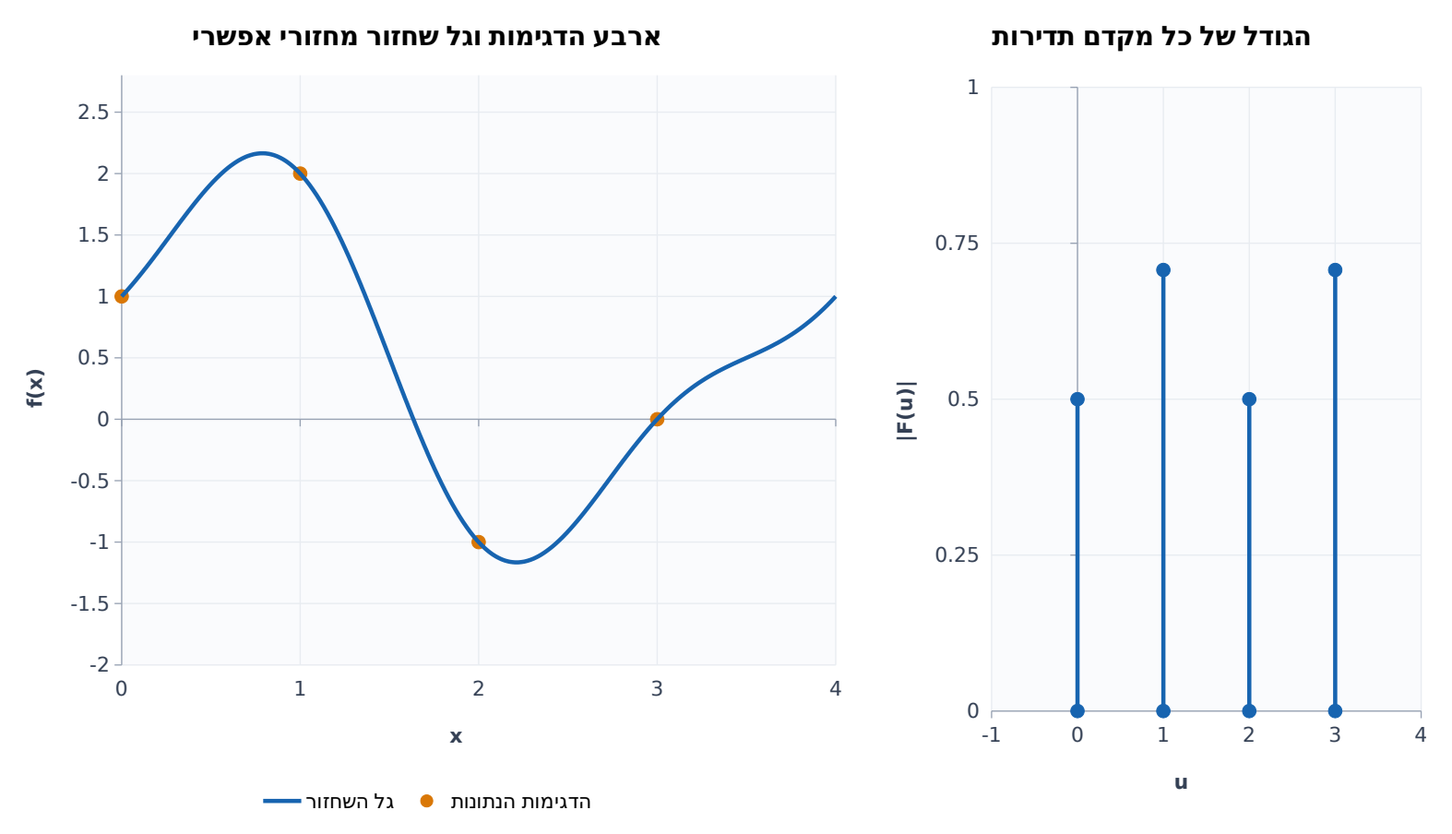
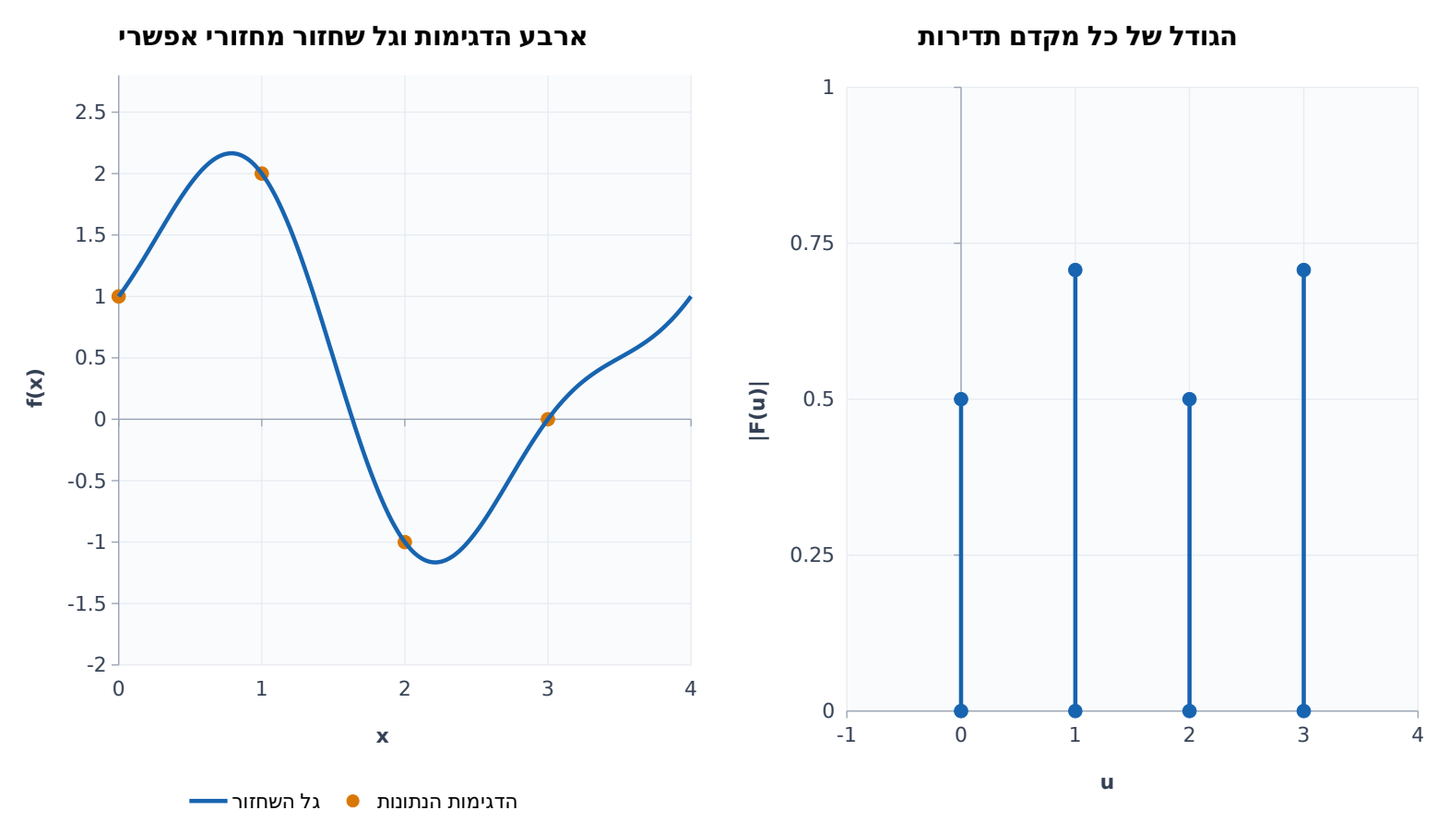
Center course figures at 80 percent width and balance paired graphs

diff --git a/work/לקריאה ב־GitHub/01 - מדריך להתמרת פורייה.md b/work/לקריאה ב־GitHub/01 - מדריך להתמרת פורייה.md
@@ -37,7 +37,7 @@
 
 הטבלה מספרת מאילו תנודות בנינו את הצליל. אם מייצרים את שני הקוסינוסים ומחברים אותם באותו תזמון, חוזרים לעקומה בזמן. אין צורך לשמור בנפרד את ערך הסכום בכל רגע כדי לתאר את הדוגמה האידאלית הזאת.
 
-<a href="../%D7%90%D7%99%D7%95%D7%A8%D7%99%D7%9D%20%D7%9C%D7%9E%D7%93%D7%A8%D7%99%D7%9A%20%D7%A4%D7%95%D7%A8%D7%99%D7%99%D7%94/09-%D7%A7%D7%95%D7%9C-%D7%96%D7%9E%D7%9F-%D7%95%D7%AA%D7%93%D7%99%D7%A8%D7%95%D7%AA.png"><img src="../%D7%90%D7%99%D7%95%D7%A8%D7%99%D7%9D%20%D7%9C%D7%9E%D7%93%D7%A8%D7%99%D7%9A%20%D7%A4%D7%95%D7%A8%D7%99%D7%99%D7%94/09-%D7%A7%D7%95%D7%9C-%D7%96%D7%9E%D7%9F-%D7%95%D7%AA%D7%93%D7%99%D7%A8%D7%95%D7%AA.png" alt="אות קול בזמן ומשרעות שני רכיבי הקוסינוס שלו בתדירות" width="50%"></a>
+<p align="center"><a href="../%D7%90%D7%99%D7%95%D7%A8%D7%99%D7%9D%20%D7%9C%D7%9E%D7%93%D7%A8%D7%99%D7%9A%20%D7%A4%D7%95%D7%A8%D7%99%D7%99%D7%94/09-%D7%A7%D7%95%D7%9C-%D7%96%D7%9E%D7%9F-%D7%95%D7%AA%D7%93%D7%99%D7%A8%D7%95%D7%AA.png"><img src="../%D7%90%D7%99%D7%95%D7%A8%D7%99%D7%9D%20%D7%9C%D7%9E%D7%93%D7%A8%D7%99%D7%9A%20%D7%A4%D7%95%D7%A8%D7%99%D7%99%D7%94/09-%D7%A7%D7%95%D7%9C-%D7%96%D7%9E%D7%9F-%D7%95%D7%AA%D7%93%D7%99%D7%A8%D7%95%D7%AA.png" alt="אות קול בזמן ומשרעות שני רכיבי הקוסינוס שלו בתדירות" width="80%"></a></p>
 
 **מה רואים?** משמאל מוצגות שלוש מאיות השנייה הראשונות של הצליל: הקו הוא הסכום, ושני רכיביו אינם מצוירים בנפרד. מימין מתואר ההרכב שבחרנו לצליל המתמשך: קוסינוס של <span dir="ltr"> $`100`$</span> הרץ במשרעת <span dir="ltr"> $`2`$</span> וקוסינוס של <span dir="ltr"> $`200`$</span> הרץ במשרעת <span dir="ltr"> $`1`$</span>. זהו תרשים משרעות הרכיבים, ולא חישוב התמרה של מקטע התצוגה הקצר. הציר האופקי מימין הוא תדירות, ולכן כל עמודה מייצגת גל שלם המשתתף באות.
 
@@ -57,7 +57,7 @@
 
 לכן בתיאור לפי מקום שואלים ״מה בהירות הפיקסל השלישי?״, ובתיאור לפי תדירות שואלים ״כמה דפוס של שני מחזורים משתתף בשורה?״. בשורה אחידה, למשל שמונה ערכים שכולם <span dir="ltr"> $`4`$</span>, יש רק רכיב קבוע ואין תנודה. בשורה שמתחלפת בין <span dir="ltr"> $`6`$</span> ל־<span dir="ltr"> $`2`$</span> בכל פיקסל, יש ארבעה מחזורים באותו אורך — תדירות מרחבית גבוהה יותר.
 
-<a href="../%D7%90%D7%99%D7%95%D7%A8%D7%99%D7%9D%20%D7%9C%D7%9E%D7%93%D7%A8%D7%99%D7%9A%20%D7%A4%D7%95%D7%A8%D7%99%D7%99%D7%94/10-%D7%A4%D7%99%D7%A7%D7%A1%D7%9C%D7%99%D7%9D-%D7%95%D7%AA%D7%93%D7%99%D7%A8%D7%95%D7%AA.png"><img src="../%D7%90%D7%99%D7%95%D7%A8%D7%99%D7%9D%20%D7%9C%D7%9E%D7%93%D7%A8%D7%99%D7%9A%20%D7%A4%D7%95%D7%A8%D7%99%D7%99%D7%94/10-%D7%A4%D7%99%D7%A7%D7%A1%D7%9C%D7%99%D7%9D-%D7%95%D7%AA%D7%93%D7%99%D7%A8%D7%95%D7%AA.png" alt="שורת שמונה פיקסלים מול תיאור שלה באמצעות ממוצע וקוסינוס" width="50%"></a>
+<p align="center"><a href="../%D7%90%D7%99%D7%95%D7%A8%D7%99%D7%9D%20%D7%9C%D7%9E%D7%93%D7%A8%D7%99%D7%9A%20%D7%A4%D7%95%D7%A8%D7%99%D7%99%D7%94/10-%D7%A4%D7%99%D7%A7%D7%A1%D7%9C%D7%99%D7%9D-%D7%95%D7%AA%D7%93%D7%99%D7%A8%D7%95%D7%AA.png"><img src="../%D7%90%D7%99%D7%95%D7%A8%D7%99%D7%9D%20%D7%9C%D7%9E%D7%93%D7%A8%D7%99%D7%9A%20%D7%A4%D7%95%D7%A8%D7%99%D7%99%D7%94/10-%D7%A4%D7%99%D7%A7%D7%A1%D7%9C%D7%99%D7%9D-%D7%95%D7%AA%D7%93%D7%99%D7%A8%D7%95%D7%AA.png" alt="שורת שמונה פיקסלים מול תיאור שלה באמצעות ממוצע וקוסינוס" width="80%"></a></p>
 
 **מה רואים?** משמאל הבהירות בכל אחד משמונת הפיקסלים; הקווים בין הנקודות עוזרים לראות את הדפוס. הקו המקווקו הוא הממוצע <span dir="ltr"> $`4`$</span>. מימין מופיעים הרכיב הקבוע בגודל <span dir="ltr"> $`4`$</span> ותנודת הקוסינוס במשרעת <span dir="ltr"> $`2`$</span> שמשלימה שני מחזורים לאורך השורה. אפס מחזורים פירושו רכיב קבוע. גם כאן זהו תרשים של מרכיבי הדוגמה; ערכי מקדמי ההתמרה יוגדרו בנפרד בהמשך.
 
@@ -122,7 +122,7 @@
 
 משך מחזור אחד הוא <span dir="ltr"> $`1/u`$</span>, עבור <span dir="ltr"> $`u>0`$</span>. למשל, בתדירות <span dir="ltr"> $`4\,\mathrm{Hz}`$</span> כל מחזור נמשך רבע שנייה. זה גם הפירוש של הכיתוב <span dir="ltr"> $`1/u`$</span> מעל הגל במצגת. כשמדברים על תדירות זוויתית, מתכוונים ל־<span dir="ltr"> $`2\pi u`$</span> רדיאנים ליחידת קלט.
 
-<a href="../%D7%90%D7%99%D7%95%D7%A8%D7%99%D7%9D%20%D7%9C%D7%9E%D7%93%D7%A8%D7%99%D7%9A%20%D7%A4%D7%95%D7%A8%D7%99%D7%99%D7%94/01-%D7%AA%D7%93%D7%99%D7%A8%D7%95%D7%AA.png"><img src="../%D7%90%D7%99%D7%95%D7%A8%D7%99%D7%9D%20%D7%9C%D7%9E%D7%93%D7%A8%D7%99%D7%9A%20%D7%A4%D7%95%D7%A8%D7%99%D7%99%D7%94/01-%D7%AA%D7%93%D7%99%D7%A8%D7%95%D7%AA.png" alt="השוואת גל בתדירות אחת לגל בתדירות שלוש באותו חלון ובאותה משרעת" width="50%"></a>
+<p align="center"><a href="../%D7%90%D7%99%D7%95%D7%A8%D7%99%D7%9D%20%D7%9C%D7%9E%D7%93%D7%A8%D7%99%D7%9A%20%D7%A4%D7%95%D7%A8%D7%99%D7%99%D7%94/01-%D7%AA%D7%93%D7%99%D7%A8%D7%95%D7%AA.png"><img src="../%D7%90%D7%99%D7%95%D7%A8%D7%99%D7%9D%20%D7%9C%D7%9E%D7%93%D7%A8%D7%99%D7%9A%20%D7%A4%D7%95%D7%A8%D7%99%D7%99%D7%94/01-%D7%AA%D7%93%D7%99%D7%A8%D7%95%D7%AA.png" alt="השוואת גל בתדירות אחת לגל בתדירות שלוש באותו חלון ובאותה משרעת" width="80%"></a></p>
 
 **מה רואים?** שני הגלים מתחילים בשיא וגובה השיא בשניהם הוא <span dir="ltr"> $`1`$</span>. הכחול משלים מחזור אחד בין <span dir="ltr"> $`x=0`$</span> ל־<span dir="ltr"> $`x=1`$</span>, והכתום המקווקו משלים שלושה. התדירות משנה את צפיפות התנודות, בעוד שהגובה נשאר זהה. בשניהם מציבים בנוסחה <span dir="ltr"> $`f(x)=\cos(2\pi ux)`$</span>.
 
@@ -147,7 +147,7 @@ f(x)=2\cos(2\pi ux+\theta).
 
 לדוגמה, כש־<span dir="ltr"> $`u=1`$</span> ו־<span dir="ltr"> $`\theta=0`$</span>, מתקבל <span dir="ltr"> $`f(x)=2\cos(2\pi x)`$</span>: שני הגורמים <span dir="ltr"> $`2`$</span> ממלאים תפקידים שונים — הראשון קובע את הגובה, והגורם <span dir="ltr"> $`2\pi`$</span> ממיר מחזור שלם לרדיאנים.
 
-<a href="../%D7%90%D7%99%D7%95%D7%A8%D7%99%D7%9D%20%D7%9C%D7%9E%D7%93%D7%A8%D7%99%D7%9A%20%D7%A4%D7%95%D7%A8%D7%99%D7%99%D7%94/02-%D7%9E%D7%A9%D7%A8%D7%A2%D7%AA.png"><img src="../%D7%90%D7%99%D7%95%D7%A8%D7%99%D7%9D%20%D7%9C%D7%9E%D7%93%D7%A8%D7%99%D7%9A%20%D7%A4%D7%95%D7%A8%D7%99%D7%99%D7%94/02-%D7%9E%D7%A9%D7%A8%D7%A2%D7%AA.png" alt="שני גלים בתדירות זהה ובמשרעות חצי ואחת וחצי" width="50%"></a>
+<p align="center"><a href="../%D7%90%D7%99%D7%95%D7%A8%D7%99%D7%9D%20%D7%9C%D7%9E%D7%93%D7%A8%D7%99%D7%9A%20%D7%A4%D7%95%D7%A8%D7%99%D7%99%D7%94/02-%D7%9E%D7%A9%D7%A8%D7%A2%D7%AA.png"><img src="../%D7%90%D7%99%D7%95%D7%A8%D7%99%D7%9D%20%D7%9C%D7%9E%D7%93%D7%A8%D7%99%D7%9A%20%D7%A4%D7%95%D7%A8%D7%99%D7%99%D7%94/02-%D7%9E%D7%A9%D7%A8%D7%A2%D7%AA.png" alt="שני גלים בתדירות זהה ובמשרעות חצי ואחת וחצי" width="80%"></a></p>
 
 **מה רואים?** כאן <span dir="ltr"> $`u=2`$</span> ו־<span dir="ltr"> $`\theta=0`$</span> בשני הגלים. הכחול הוא <span dir="ltr"> $`1.5\cos(4\pi x)`$</span> והכתום המקווקו הוא <span dir="ltr"> $`0.5\cos(4\pi x)`$</span>. השיאים והאפסים מופיעים באותם מיקומים: השתנתה המשרעת, ואילו התדירות והמופע נשארו זהים.
 
@@ -163,7 +163,7 @@ f(x)=2\cos(2\pi ux+\theta).
 
 סינוס וקוסינוס הם אותה צורת גל בהזזה של רבע מחזור. מופעים שנבדלים בכפולה של <span dir="ltr"> $`2\pi`$</span> מתארים אותו גל. כשמכפילים את הקוסינוס באפס אין תנודה, ולכן אין משמעות למופע שלה.
 
-<a href="../%D7%90%D7%99%D7%95%D7%A8%D7%99%D7%9D%20%D7%9C%D7%9E%D7%93%D7%A8%D7%99%D7%9A%20%D7%A4%D7%95%D7%A8%D7%99%D7%99%D7%94/03-%D7%9E%D7%95%D7%A4%D7%A2.png"><img src="../%D7%90%D7%99%D7%95%D7%A8%D7%99%D7%9D%20%D7%9C%D7%9E%D7%93%D7%A8%D7%99%D7%9A%20%D7%A4%D7%95%D7%A8%D7%99%D7%99%D7%94/03-%D7%9E%D7%95%D7%A4%D7%A2.png" alt="גל קוסינוס וגל במופע מינוס פאי חלקי שתיים באותה תדירות ובאותו גודל" width="50%"></a>
+<p align="center"><a href="../%D7%90%D7%99%D7%95%D7%A8%D7%99%D7%9D%20%D7%9C%D7%9E%D7%93%D7%A8%D7%99%D7%9A%20%D7%A4%D7%95%D7%A8%D7%99%D7%99%D7%94/03-%D7%9E%D7%95%D7%A4%D7%A2.png"><img src="../%D7%90%D7%99%D7%95%D7%A8%D7%99%D7%9D%20%D7%9C%D7%9E%D7%93%D7%A8%D7%99%D7%9A%20%D7%A4%D7%95%D7%A8%D7%99%D7%99%D7%94/03-%D7%9E%D7%95%D7%A4%D7%A2.png" alt="גל קוסינוס וגל במופע מינוס פאי חלקי שתיים באותה תדירות ובאותו גודל" width="80%"></a></p>
 
 **מה רואים?** בשניהם <span dir="ltr"> $`u=1`$</span> והמשרעת היא <span dir="ltr"> $`1`$</span>. עבור <span dir="ltr"> $`\theta=0`$</span> הגל הכחול מתחיל בשיא; עבור <span dir="ltr"> $`\theta=-\pi/2`$</span> הגל הכתום מתחיל באפס ועולה. הנקודות ב־<span dir="ltr"> $`x=0`$</span> מדגישות את ההתחלה השונה. זהו שינוי מופע בלבד, בלי שינוי בגובה או במספר המחזורים.
 
@@ -191,7 +191,7 @@ f(x)=3\sin x+\sin3x+0.8\sin5x+0.4\sin7x.
 
 [מצגת המרצה ב־PDF, עמ׳ 11](../../sources/Intro+FourierI_slides.pdf#page=11) 
 
-<a href="../%D7%90%D7%99%D7%95%D7%A8%D7%99%D7%9D%20%D7%9C%D7%9E%D7%93%D7%A8%D7%99%D7%9A%20%D7%A4%D7%95%D7%A8%D7%99%D7%99%D7%94/04-%D7%97%D7%99%D7%91%D7%95%D7%A8-%D7%92%D7%9C%D7%99%D7%9D.png"><img src="../%D7%90%D7%99%D7%95%D7%A8%D7%99%D7%9D%20%D7%9C%D7%9E%D7%93%D7%A8%D7%99%D7%9A%20%D7%A4%D7%95%D7%A8%D7%99%D7%99%D7%94/04-%D7%97%D7%99%D7%91%D7%95%D7%A8-%D7%92%D7%9C%D7%99%D7%9D.png" alt="ארבעה שלבים של חיבור הגלים מהמצגת; הסכום בכחול והגל הנוסף בכתום מקווקו" width="50%"></a>
+<p align="center"><a href="../%D7%90%D7%99%D7%95%D7%A8%D7%99%D7%9D%20%D7%9C%D7%9E%D7%93%D7%A8%D7%99%D7%9A%20%D7%A4%D7%95%D7%A8%D7%99%D7%99%D7%94/04-%D7%97%D7%99%D7%91%D7%95%D7%A8-%D7%92%D7%9C%D7%99%D7%9D.png"><img src="../%D7%90%D7%99%D7%95%D7%A8%D7%99%D7%9D%20%D7%9C%D7%9E%D7%93%D7%A8%D7%99%D7%9A%20%D7%A4%D7%95%D7%A8%D7%99%D7%99%D7%94/04-%D7%97%D7%99%D7%91%D7%95%D7%A8-%D7%92%D7%9C%D7%99%D7%9D.png" alt="ארבעה שלבים של חיבור הגלים מהמצגת; הסכום בכחול והגל הנוסף בכתום מקווקו" width="80%"></a></p>
 
 **מה רואים?** קוראים את ארבעת הלוחות משמאל לימין ומלמעלה למטה. הכחול הוא הסכום שהתקבל עד אותו שלב; הכתום המקווקו הוא הגל שנוסף באותו שלב. בכל <span dir="ltr"> $`x`$</span> מחברים את הגבהים. תוספת של גל מהיר יוצרת תנודות קטנות ופרטים חדשים על גבי הצורה הקיימת. הנוסחאות בראש הלוחות הן אותן נוסחאות של הדוגמה במצגת; כאן הארגומנטים הם <span dir="ltr"> $`x,3x,5x,7x`$</span>.
 
@@ -330,7 +330,7 @@ f(x)=3\sin x+\sin3x+0.8\sin5x+0.4\sin7x.
 
 אם האות הוא <span dir="ltr"> $`2\cos(2\pi ux)`$</span>, תוצאת הבדיקה כפולה: <span dir="ltr"> $`1`$</span>. אם האות הוא <span dir="ltr"> $`3\cos(2\pi ux)`$</span>, התוצאה היא <span dir="ltr"> $`1.5`$</span>. לכן כדי לקבל את המשרעת בחזרה, מכפילים את תוצאת הבדיקה בשתיים. על חלון אחר שמכיל מספר שלם של מחזורים, מחלקים גם באורך החלון. תיקון קנה המידה הזה נקרא **נרמול**. כאן הוא נובע מכך שהממוצע של ריבוע קוסינוס הוא חצי.
 
-<a href="../%D7%90%D7%99%D7%95%D7%A8%D7%99%D7%9D%20%D7%9C%D7%9E%D7%93%D7%A8%D7%99%D7%9A%20%D7%A4%D7%95%D7%A8%D7%99%D7%99%D7%94/05-%D7%94%D7%AA%D7%90%D7%9E%D7%94-%D7%95%D7%91%D7%99%D7%98%D7%95%D7%9C.png"><img src="../%D7%90%D7%99%D7%95%D7%A8%D7%99%D7%9D%20%D7%9C%D7%9E%D7%93%D7%A8%D7%99%D7%9A%20%D7%A4%D7%95%D7%A8%D7%99%D7%99%D7%94/05-%D7%94%D7%AA%D7%90%D7%9E%D7%94-%D7%95%D7%91%D7%99%D7%98%D7%95%D7%9C.png" alt="מכפלת קוסינוסים בתדרים שונים לעומת מכפלת קוסינוס בעצמו" width="50%"></a>
+<p align="center"><a href="../%D7%90%D7%99%D7%95%D7%A8%D7%99%D7%9D%20%D7%9C%D7%9E%D7%93%D7%A8%D7%99%D7%9A%20%D7%A4%D7%95%D7%A8%D7%99%D7%99%D7%94/05-%D7%94%D7%AA%D7%90%D7%9E%D7%94-%D7%95%D7%91%D7%99%D7%98%D7%95%D7%9C.png"><img src="../%D7%90%D7%99%D7%95%D7%A8%D7%99%D7%9D%20%D7%9C%D7%9E%D7%93%D7%A8%D7%99%D7%9A%20%D7%A4%D7%95%D7%A8%D7%99%D7%99%D7%94/05-%D7%94%D7%AA%D7%90%D7%9E%D7%94-%D7%95%D7%91%D7%99%D7%98%D7%95%D7%9C.png" alt="מכפלת קוסינוסים בתדרים שונים לעומת מכפלת קוסינוס בעצמו" width="80%"></a></p>
 
 **מה רואים?** משמאל מצוירת המכפלה <span dir="ltr"> $`\cos(2\pi\cdot3x)\cos(2\pi\cdot5x)`$</span>: השטחים שמעל קו האפס ומתחתיו מתבטלים באינטגרל על <span dir="ltr"> $`0\le x\le1`$</span>. מימין מצויר <span dir="ltr"> $`\cos^2(2\pi\cdot3x)`$</span>, שאינו שלילי, ולכן התרומות מצטברות והאינטגרל הוא <span dir="ltr"> $`1/2`$</span>. בדוגמה זו משרעת גל הבדיקה היא <span dir="ltr"> $`1`$</span>. הגרף ממחיש מדוע ההתאמה נבדקת באמצעות סכום התרומות עם הסימנים שלהן.
 
@@ -419,7 +419,7 @@ e^{-i\theta}=\cos\theta-i\sin\theta.
 
 נוסחת אוילר וזוג ההתמרות הרציפות מופיעים ב[דף העזר פורייה, עמ׳ 1](../../sources/Fourier.pdf#page=1) .
 
-<a href="../%D7%90%D7%99%D7%95%D7%A8%D7%99%D7%9D%20%D7%9C%D7%9E%D7%93%D7%A8%D7%99%D7%9A%20%D7%A4%D7%95%D7%A8%D7%99%D7%99%D7%94/06-%D7%92%D7%9C-%D7%9E%D7%A8%D7%95%D7%9B%D7%91.png"><img src="../%D7%90%D7%99%D7%95%D7%A8%D7%99%D7%9D%20%D7%9C%D7%9E%D7%93%D7%A8%D7%99%D7%9A%20%D7%A4%D7%95%D7%A8%D7%99%D7%99%D7%94/06-%D7%92%D7%9C-%D7%9E%D7%A8%D7%95%D7%9B%D7%91.png" alt="מעגל היחידה משמאל וגלי ההיטל הממשי והמדומה מימין" width="50%"></a>
+<p align="center"><a href="../%D7%90%D7%99%D7%95%D7%A8%D7%99%D7%9D%20%D7%9C%D7%9E%D7%93%D7%A8%D7%99%D7%9A%20%D7%A4%D7%95%D7%A8%D7%99%D7%99%D7%94/06-%D7%92%D7%9C-%D7%9E%D7%A8%D7%95%D7%9B%D7%91.png"><img src="../%D7%90%D7%99%D7%95%D7%A8%D7%99%D7%9D%20%D7%9C%D7%9E%D7%93%D7%A8%D7%99%D7%9A%20%D7%A4%D7%95%D7%A8%D7%99%D7%99%D7%94/06-%D7%92%D7%9C-%D7%9E%D7%A8%D7%95%D7%9B%D7%91.png" alt="מעגל היחידה משמאל וגלי ההיטל הממשי והמדומה מימין" width="80%"></a></p>
 
 **מה רואים?** משמאל מוצגת נקודה על מעגל היחידה, <span dir="ltr"> $`Z=e^{i\theta}`$</span>, בדוגמה <span dir="ltr"> $`\theta=\pi/3`$</span>: ההיטל האופקי שלה הוא <span dir="ltr"> $`1/2`$</span> וההיטל האנכי הוא <span dir="ltr"> $`\sqrt3/2`$</span>. מימין נותנים לזווית להתקדם לפי <span dir="ltr"> $`\theta=2\pi x`$</span>, כלומר <span dir="ltr"> $`u=1`$</span>. ההיטל הממשי יוצר קוסינוס וההיטל המדומה יוצר סינוס. הנקודה מסתובבת וגודלה נשאר <span dir="ltr"> $`1`$</span>, אף שכל אחד מההיטלים משתנה בגל.
 
@@ -841,7 +841,7 @@ f(x)=\frac12 +\cos\left(\frac{\pi x}{2}\right) +\sin\left(\frac{\pi x}{2}\right)
 
 קיבלנו חזרה את ארבע הדגימות המקוריות. כל המקדמים בדוגמה מחושבים לפי נרמול הקורס, וההיפוך מחבר אותם ללא חלוקה נוספת. [מצגת המרצה ב־PDF, עמ׳ 22](../../sources/Intro+FourierI_slides.pdf#page=22) 
 
-<a href="../%D7%90%D7%99%D7%95%D7%A8%D7%99%D7%9D%20%D7%9C%D7%9E%D7%93%D7%A8%D7%99%D7%9A%20%D7%A4%D7%95%D7%A8%D7%99%D7%99%D7%94/07-%D7%93%D7%92%D7%99%D7%9E%D7%95%D7%AA-%D7%95%D7%AA%D7%93%D7%A8%D7%99%D7%9D.png"><img src="../%D7%90%D7%99%D7%95%D7%A8%D7%99%D7%9D%20%D7%9C%D7%9E%D7%93%D7%A8%D7%99%D7%9A%20%D7%A4%D7%95%D7%A8%D7%99%D7%99%D7%94/07-%D7%93%D7%92%D7%99%D7%9E%D7%95%D7%AA-%D7%95%D7%AA%D7%93%D7%A8%D7%99%D7%9D.png" alt="ארבע הדגימות עם גל שחזור אפשרי משמאל וגדלי מקדמי ההתמרה מימין" width="50%"></a>
+<p align="center"><a href="../%D7%90%D7%99%D7%95%D7%A8%D7%99%D7%9D%20%D7%9C%D7%9E%D7%93%D7%A8%D7%99%D7%9A%20%D7%A4%D7%95%D7%A8%D7%99%D7%99%D7%94/07-%D7%93%D7%92%D7%99%D7%9E%D7%95%D7%AA-%D7%95%D7%AA%D7%93%D7%A8%D7%99%D7%9D.png"><img src="../%D7%90%D7%99%D7%95%D7%A8%D7%99%D7%9D%20%D7%9C%D7%9E%D7%93%D7%A8%D7%99%D7%9A%20%D7%A4%D7%95%D7%A8%D7%99%D7%99%D7%94/07-%D7%93%D7%92%D7%99%D7%9E%D7%95%D7%AA-%D7%95%D7%AA%D7%93%D7%A8%D7%99%D7%9D.png" alt="ארבע הדגימות עם גל שחזור אפשרי משמאל וגדלי מקדמי ההתמרה מימין" width="80%"></a></p>
 
 **מה רואים?** משמאל הנקודות הכתומות הן ארבע הדגימות הנתונות, והקו הכחול הוא גל שחזור מחזורי אפשרי שעובר דרכן. הציר <span dir="ltr"> $`x`$</span> מציין כאן אינדקס דגימה; מחזור אחד כולל <span dir="ltr"> $`N=4`$</span> דגימות. הקו שבין הנקודות נועד להמחשה ואינו מדידה נוספת של האות המקורי. הוא חושב באמצעות
 
@@ -1281,7 +1281,7 @@ f(x)=\operatorname{rect}(x)=\begin{cases}k,&|x|\le c,\\0,&|x|>c.\end{cases}
 
 שלושה דברים אפשר לקרוא מיד: <span dir="ltr"> $`F(0)=2kc`$</span> הוא שטח המלבן; האפס הראשון בתדר חיובי נמצא ב־<span dir="ltr"> $`u=1/(2c)`$</span>; וככל שהמלבן רחב יותר, האונה המרכזית של הספקטרום צרה יותר. החיתוך החד במרחב יוצר גם אונות צד בתדירות. זו אינטואיציה לכך שגבולות חדים דורשים תדרים רבים, ולכך שמסנן חיתוך חד עשוי ליצור תנודות במרחב.
 
-<a href="../%D7%90%D7%99%D7%95%D7%A8%D7%99%D7%9D%20%D7%9C%D7%9E%D7%93%D7%A8%D7%99%D7%9A%20%D7%A4%D7%95%D7%A8%D7%99%D7%99%D7%94/08-%D7%9E%D7%9C%D7%91%D7%9F-%D7%95%D7%94%D7%AA%D7%9E%D7%A8%D7%94.png"><img src="../%D7%90%D7%99%D7%95%D7%A8%D7%99%D7%9D%20%D7%9C%D7%9E%D7%93%D7%A8%D7%99%D7%9A%20%D7%A4%D7%95%D7%A8%D7%99%D7%99%D7%94/08-%D7%9E%D7%9C%D7%91%D7%9F-%D7%95%D7%94%D7%AA%D7%9E%D7%A8%D7%94.png" alt="מלבנים בשני רוחבים והתמרות הפורייה שלהם, כולל האונות השליליות" width="50%"></a>
+<p align="center"><a href="../%D7%90%D7%99%D7%95%D7%A8%D7%99%D7%9D%20%D7%9C%D7%9E%D7%93%D7%A8%D7%99%D7%9A%20%D7%A4%D7%95%D7%A8%D7%99%D7%99%D7%94/08-%D7%9E%D7%9C%D7%91%D7%9F-%D7%95%D7%94%D7%AA%D7%9E%D7%A8%D7%94.png"><img src="../%D7%90%D7%99%D7%95%D7%A8%D7%99%D7%9D%20%D7%9C%D7%9E%D7%93%D7%A8%D7%99%D7%9A%20%D7%A4%D7%95%D7%A8%D7%99%D7%99%D7%94/08-%D7%9E%D7%9C%D7%91%D7%9F-%D7%95%D7%94%D7%AA%D7%9E%D7%A8%D7%94.png" alt="מלבנים בשני רוחבים והתמרות הפורייה שלהם, כולל האונות השליליות" width="80%"></a></p>
 
 **מה רואים?** משמאל שני מלבנים באותו גובה <span dir="ltr"> $`k=1`$</span>: הכחול עם <span dir="ltr"> $`c=0.5`$</span>, והכתום המקווקו עם <span dir="ltr"> $`c=1`$</span>. מימין מופיעות ההתמרות <span dir="ltr"> $`F(u)`$</span> שלהם. למלבן הרחב יש אונה מרכזית צרה יותר: האפס החיובי הראשון שלו הוא <span dir="ltr"> $`u=0.5`$</span>, לעומת <span dir="ltr"> $`u=1`$</span> במלבן הצר. ערך <span dir="ltr"> $`F(0)`$</span> הוא השטח: <span dir="ltr"> $`2`$</span> למלבן הרחב ו־<span dir="ltr"> $`1`$</span> לצר. כאן מצויר <span dir="ltr"> $`F(u)`$</span> עצמו, ולכן רואים גם אונות שליליות; זו אינה תצוגה של <span dir="ltr"> $`|F(u)|`$</span>.
 
